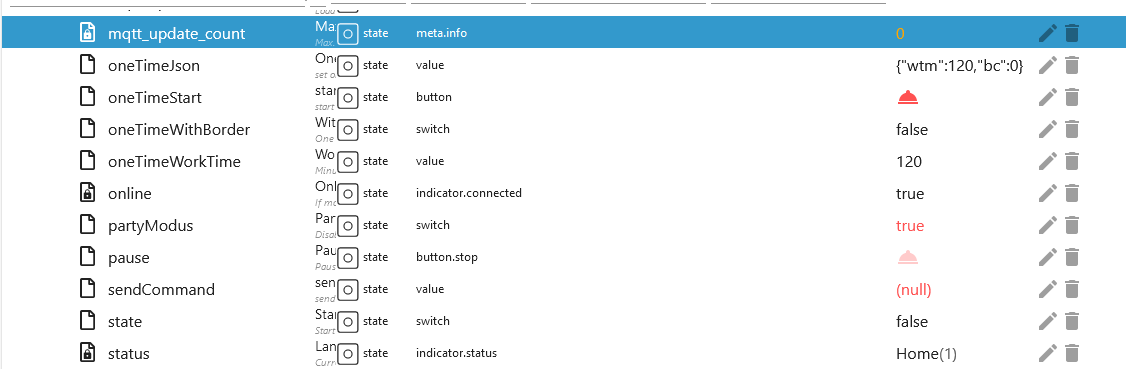
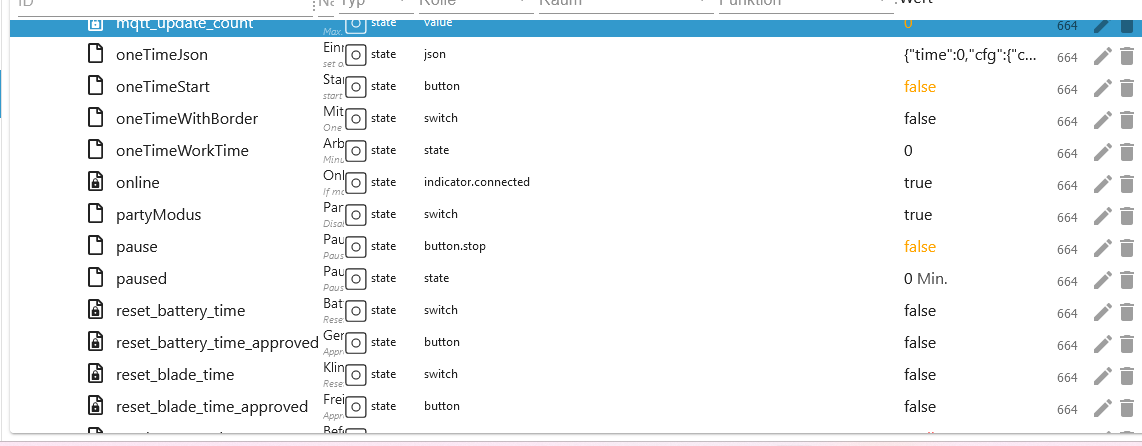
add reset blade and battery time

diff --git a/main.js b/main.js
@@ -1603,7 +1603,15 @@ class Worx extends utils.Adapter {
      */
     async onStateChange(id, state) {
         if (state && !state.ack && state.val !== null) {
-            const no_verification = ["borderCut", "startTime", "workTime", "oneTimeWithBorder", "oneTimeWorkTime"];
+            const no_verification = [
+                "borderCut",
+                "startTime",
+                "workTime",
+                "oneTimeWithBorder",
+                "oneTimeWorkTime",
+                "reset_battery_time",
+                "reset_blade_time",
+            ];
             const command = id.split(".").pop();
             if (command == null) return;
             const check_time = Date.now() - this.poll_check_time;
@@ -1741,7 +1749,7 @@ class Worx extends utils.Adapter {
                         msg.t = typeof state.val === "number" ? state.val : parseInt(state.val.toString());
                         if (msg.lvl === 0) msg.lvl = 1;
                         this.sendMessage(`{"al":${JSON.stringify(msg)}}`, mower.serial_number, id);
-                    } else if (command === "HL") {
+                    } else if (command === "hl") {
                         const msg = {};
                         msg.enabled = state.val;
                         this.sendMessage(`{"modules":{"HL":${JSON.stringify(msg)}}}`, mower.serial_number, id);
@@ -1768,6 +1776,19 @@ class Worx extends utils.Adapter {
                         if (torque < -50 || torque > 50) return;
                         const tqval = typeof state.val === "number" ? state.val : parseInt(state.val.toString());
                         this.sendMessage(`{"tq":${tqval}}`, mower.serial_number, id);
+                    } else if (command === "reset_battery_time" && state.val) {
+                        await this.setStateAsync(`${mower.serial_number}.mower.reset_battery_time`, {
+                            ack: true,
+                        });
+                    } else if (command === "reset_blade_time" && state.val) {
+                        await this.setStateAsync(`${mower.serial_number}.mower.reset_blade_time`, {
+                            ack: true,
+                        });
+                    } else if (
+                        (command === "reset_blade_time_approved" || command === "reset_battery_time_approved") &&
+                        state.val
+                    ) {
+                        this.reset_times(command, mower.serial_number);
                     } else if (command === "zoneKeeper") {
                         const keeper = state.val ? 1 : 0;
                         if (
@@ -1796,6 +1817,56 @@ class Worx extends utils.Adapter {
             } else {
                 this.log.error(`No mower found!  ${JSON.stringify(mower_id)}`);
                 this.log.info(`Mower list ${JSON.stringify(this.deviceArray)}`);
+            }
+        }
+    }
+
+    /**
+     * @param {string} command
+     */
+    async reset_times(command, device) {
+        let status = null;
+        if (command === "reset_blade_time_approved") {
+            status = await this.getStateAsync(`${device}.mower.reset_blade_time`);
+            if (status != null && status.val) {
+                this.log.info(`Reset blade time!`);
+                const check_blade = await this.apiRequest(
+                    `product-items/${device}/counters/blade/reset`,
+                    false,
+                    "post",
+                );
+                this.log.info(`Answer reset blade time! ${JSON.stringify(check_blade)}`);
+                //if (check_blade) {
+                await this.setStateAsync(`${device}.mower.reset_blade_time`, {
+                    val: false,
+                    ack: true,
+                });
+                await this.setStateAsync(`${device}.mower.reset_blade_time_approved`, {
+                    val: false,
+                    ack: true,
+                });
+                //}
+            }
+        } else if (command === "reset_battery_time_approved") {
+            status = await this.getStateAsync(`${device}.mower.reset_battery_time_approved`);
+            if (status != null && status.val) {
+                this.log.info(`Reset battery time!`);
+                const check_battery = await this.apiRequest(
+                    `product-items/${device}/counters/battery/reset`,
+                    false,
+                    "post",
+                );
+                this.log.info(`Answer reset battery time! ${JSON.stringify(check_battery)}`);
+                //if (check_battery) {
+                await this.setStateAsync(`${device}.mower.reset_battery_time`, {
+                    val: false,
+                    ack: true,
+                });
+                await this.setStateAsync(`${device}.mower.reset_battery_time_approved`, {
+                    val: false,
+                    ack: true,
+                });
+                //}
             }
         }
     }

diff --git a/lib/helper.js b/lib/helper.js
@@ -767,6 +767,102 @@ module.exports = {
         await this.createDataPoint(`${mower.serial_number}.mower.batteryCharging`, common, "state");
         common = {
             name: {
+                en: "Reset blade time",
+                de: "Klingenzeit zurücksetzen",
+                ru: "Сбросить время лезвия",
+                pt: "Repor o tempo da lâmina",
+                nl: "Reset mestijd",
+                fr: "Réinitialiser le temps de la lame",
+                it: "Tempo di taglio della lama",
+                es: "Tiempo de restauración de la hoja",
+                pl: "Czasoprzestrzeni",
+                uk: "Відновити час лопаті",
+                "zh-cn": "时间分散",
+            },
+            type: "boolean",
+            role: "switch",
+            read: true,
+            write: false,
+            desc: "Reset blade time",
+            def: false,
+        };
+        await this.createDataPoint(`${mower.serial_number}.mower.reset_blade_time`, common, "state");
+        await this.setStateAsync(`${mower.serial_number}.mower.reset_blade_time`, {
+            val: false,
+            ack: true,
+        });
+        common = {
+            name: {
+                en: "Approval blade time reset",
+                de: "Freigabe der Klingenzeitrückstellung",
+                ru: "Одобрение времени сброса",
+                pt: "Reposição do tempo da lâmina de aprovação",
+                nl: "Goedkeuringsmes",
+                fr: "Réinitialisation du délai d ' homologation",
+                it: "Ripristino del tempo della lama approvazione",
+                es: "Tiempo de reajuste de la hoja de aprobación",
+                pl: "Czas resetowania",
+                uk: "Затвердити час скидання леза",
+                "zh-cn": "核准时间重新出现",
+            },
+            type: "boolean",
+            role: "button",
+            read: true,
+            write: false,
+            desc: "Approval blade time reset",
+            def: false,
+        };
+        await this.createDataPoint(`${mower.serial_number}.mower.reset_blade_time_approved`, common, "state");
+        common = {
+            name: {
+                en: "Reset battery time",
+                de: "Batteriezeit zurücksetzen",
+                ru: "Сбросить время батареи",
+                pt: "Repor o tempo da bateria",
+                nl: "Reset batterij tijd",
+                fr: "Réinitialiser le temps de batterie",
+                it: "Ripristinare il tempo della batteria",
+                es: "Reiniciar el tiempo de la batería",
+                pl: "Baterie",
+                uk: "Час акумулятора",
+                "zh-cn": "电池时",
+            },
+            type: "boolean",
+            role: "switch",
+            read: true,
+            write: false,
+            desc: "Reset blade time",
+            def: false,
+        };
+        await this.createDataPoint(`${mower.serial_number}.mower.reset_battery_time`, common, "state");
+        await this.setStateAsync(`${mower.serial_number}.mower.reset_battery_time`, {
+            val: false,
+            ack: true,
+        });
+        common = {
+            name: {
+                en: "Approval battery time reset",
+                de: "Genehmigung Batteriezeitrückstellung",
+                ru: "Одобрение сброса времени батареи",
+                pt: "Reabilitação do tempo da bateria",
+                nl: "Goedkeuringsbatterij tijd reset",
+                fr: "Réinitialisation du temps de batterie d ' homologation",
+                it: "Ripristino del tempo della batteria",
+                es: "Tiempo de recuperación de la batería",
+                pl: "Czas resetowania",
+                uk: "Затвердження часу батареї",
+                "zh-cn": "核准电池时间重新爆发",
+            },
+            type: "boolean",
+            role: "button",
+            read: true,
+            write: false,
+            desc: "Approval battery time reset",
+            def: false,
+        };
+        await this.createDataPoint(`${mower.serial_number}.mower.reset_battery_time_approved`, common, "state");
+        common = {
+            name: {
                 en: "Landroid battery state",
                 de: "Landroid Batterie Zustand",
                 ru: "Landroid состояние батареи",

diff --git a/docs/de/README.md b/docs/de/README.md
@@ -151,6 +151,13 @@
 -   `online`: Mäher Online (Draht & Vision/nur lesen)
 -   `partyModus`: Party-Modus schalten an/aus (Draht & Vision/änderbar)
 -   `pause`: Mähpause schalten an/aus (Draht & Vision/änderbar)
+-   `reset_battery_time`: Batterieladungen in 2 Schritten zurücksetzen (Draht & Vision/änderbar)
+-   `reset_battery_time_approved`: Batterieladungen zurücksetzen bestätigen - `reset_battery_time` muss auf true gesetzt sein (Draht & Vision/änderbar)
+-   `reset_blade_time`: Klingenarbeitszeit in 2 Schritten zurücksetzen (Draht & Vision/änderbar)
+-   `reset_blade_time_approved`: Klingenarbeitszeit zurücksetzen bestätigen - `reset_battery_time` muss auf true gesetzt sein (Draht & Vision/änderbar)
+
+![Mower img/mower_3.png](../en/img/mower_3.png)
+
 -   `sendCommand`: Ein Befehl versenden (Draht & Vision/änderbar)
 
 ```json
@@ -197,8 +204,6 @@
     }
 }
 ```
-
-![Mower img/mower_3.png](../en/img/mower_3.png)
 
 -   `torque`: Raddrehmoment Bereich -50->50 (Draht & Vision/änderbar)
 -   `totalBladeTime`: Gesamte Klingen-Arbeitszeit (Draht & Vision/nur lesen)

diff --git a/docs/en/README.md b/docs/en/README.md
@@ -151,6 +151,13 @@
 -   `online`: Mower online (wire & Vision/readonly)
 -   `partyModus`: Partymodus turn on/off (wire & Vision/changeable)
 -   `pause`: Mower break turn on/off (wire & Vision/changeable)
+-   `reset_battery_time`: reset battery charges in 2 steps (wire & vision/changeable)
+-   `reset_battery_time_approved`: Confirm reset battery charges - `reset_battery_time` must be set to true (wire & vision/modifiable)
+-   `reset_blade_time`: reset blade working time in 2 steps (wire & vision/changeable)
+-   `reset_blade_time_approved`: confirm reset blade working time - `reset_battery_time` must be set to true (wire & vision/changeable)
+
+![Mower img/mower_3.png](img/mower_3.png)
+
 -   `sendCommand`: Send cmd command (wire & Vision/changeable)
 
 ```json
@@ -197,8 +204,6 @@
     }
 }
 ```
-
-![Mower img/mower_3.png](img/mower_3.png)
 
 -   `torque`: Wheel torque Range -50->50 (wire & Vision/changeable)
 -   `totalBladeTime`: Total blade time (wire & Vision/readonly)
